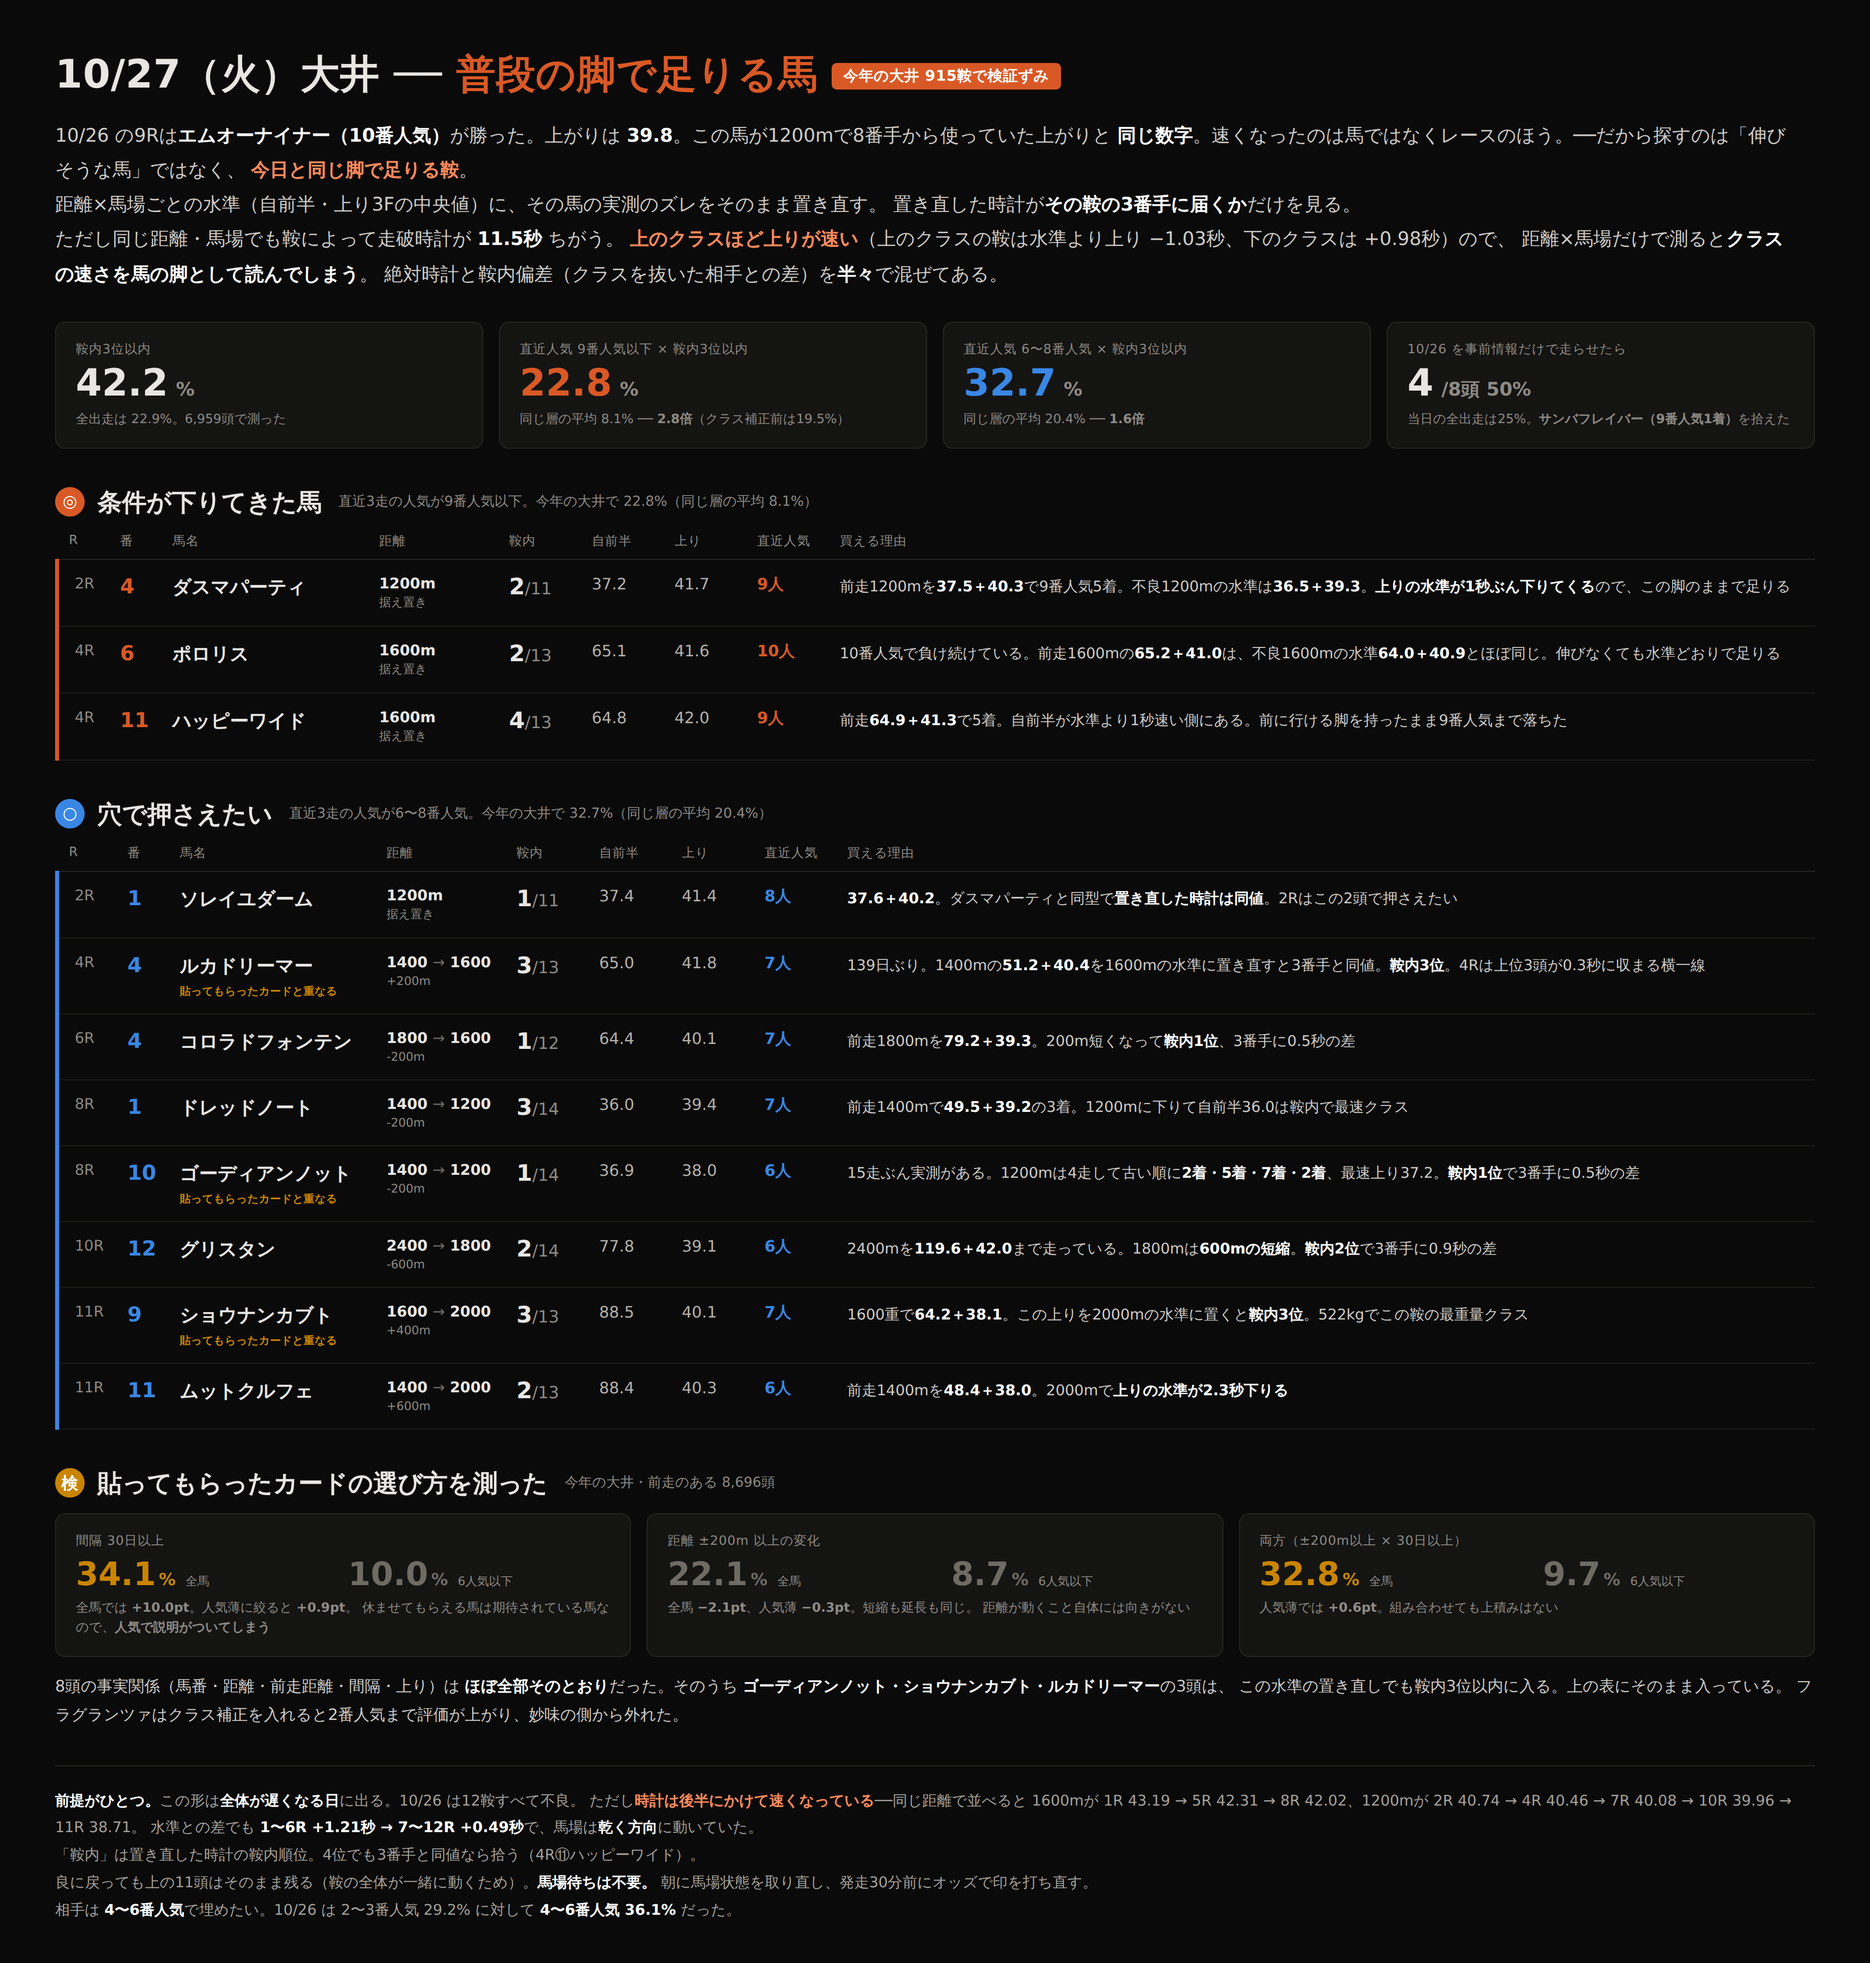
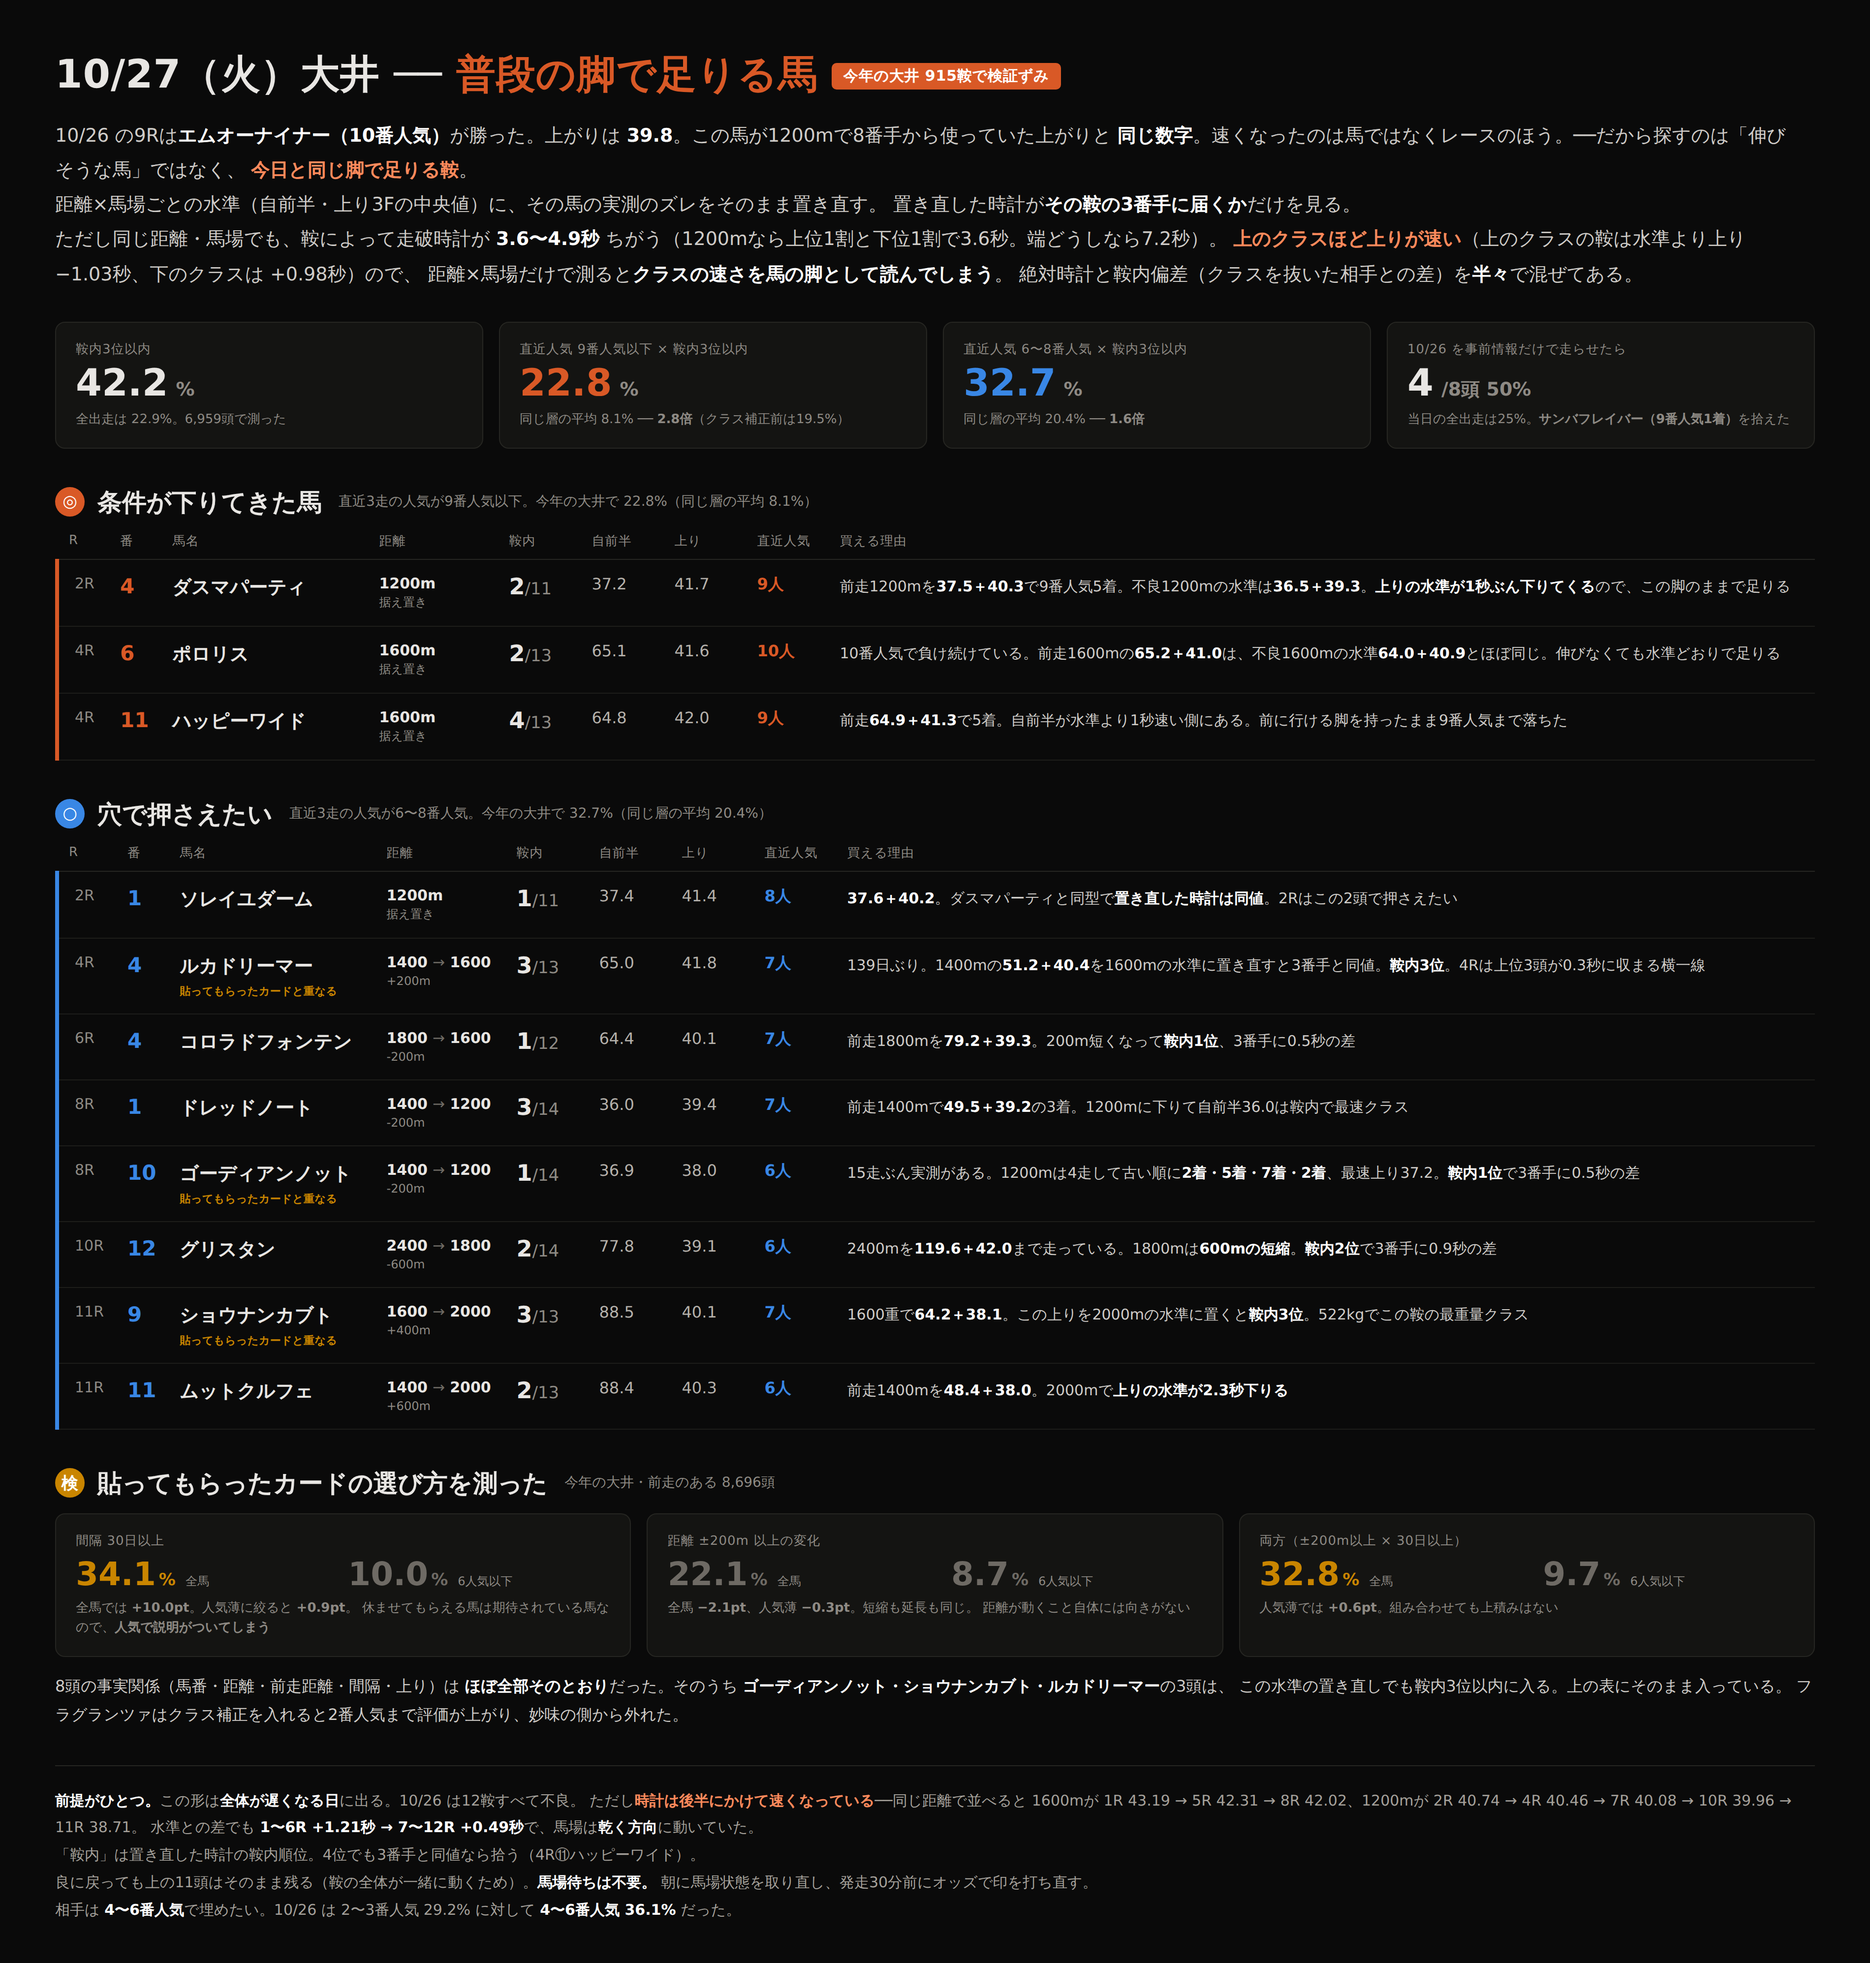
訂正：クラスの時計差は11.5秒ではなく3.6〜4.9秒
11.5秒は909鞍の最大-最小で、距離をまたいだ端どうしの差だった。
距離の中で10〜90%の幅を取ると

  1200m 327鞍 3.60秒 / 1400m 212鞍 4.50 / 1600m 249鞍 4.20
  1800m  50鞍 4.90秒 / 2000m  36鞍 4.35

1200mの端は 10/08 11R良 が中央71.6、08/15 3R重 が中央78.7 で
7.2秒。これは上位1割と下位1割の話。

補正そのもの（絶対と鞍内偏差を半々）は変えていないので、
10/27の該当馬は変わらない。

Claude-Session: https://claude.ai/code/session_01RoHscZkr96FNaxQWvUqgEw

Changed region(s): [[0.0311, 0.0932, 0.6521, 0.1554], [0.6832, 0.0932, 0.9005, 0.1554]]

diff --git a/notes/live/2026-10-27/ooi_1027.html b/notes/live/2026-10-27/ooi_1027.html
@@ -61,7 +61,7 @@ footer .hl{color:#ff8a5c;font-weight:700}
 <span class="hl">今日と同じ脚で足りる鞍</span>。<br>
 距離×馬場ごとの水準（自前半・上り3Fの中央値）に、その馬の実測のズレをそのまま置き直す。
 置き直した時計が<b>その鞍の3番手に届くか</b>だけを見る。<br>
-ただし同じ距離・馬場でも鞍によって走破時計が <b>11.5秒</b> ちがう。
+ただし同じ距離・馬場でも、鞍によって走破時計が <b>3.6〜4.9秒</b> ちがう（1200mなら上位1割と下位1割で3.6秒。端どうしなら7.2秒）。
 <span class="hl">上のクラスほど上りが速い</span>（上のクラスの鞍は水準より上り −1.03秒、下のクラスは +0.98秒）ので、
 距離×馬場だけで測ると<b>クラスの速さを馬の脚として読んでしまう</b>。
 絶対時計と鞍内偏差（クラスを抜いた相手との差）を<b>半々</b>で混ぜてある。

diff --git a/scripts/ana/ooi_fit.py b/scripts/ana/ooi_fit.py
@@ -126,7 +126,7 @@ o = ['# 大井 2026/10/27 ── 普段の脚で足りる鞍\n',
      f'馬場は **{BABA}** で置いた。水準は今年の大井 915鞍の距離×馬場ごとの中央値。\n',
      '各馬の自前半・上りは、**過去の実測をそのまま**明日の水準に置き直したもの。'
      '伸びる前提は置いていない。見込み＝自前半＋上り、壁＝その鞍の見込み3位。\n',
-     '同じ距離・馬場でも鞍によって走破時計が11.5秒ちがう（クラス）。上のクラスほど'
+     '同じ距離・馬場でも鞍によって走破時計が3.6〜4.9秒ちがう（クラス。1200mなら上位1割と下位1割で3.6秒）。上のクラスほど'
      '上りが速いので、距離×馬場だけで測るとクラスを馬の脚として読んでしまう。'
      '**絶対（距離×馬場で補正した時計）と鞍内偏差（クラスを抜いた相手との差）を半々**'
      'で混ぜた。\n',

diff --git a/scripts/ana/ooi_fit_card.py b/scripts/ana/ooi_fit_card.py
@@ -153,7 +153,7 @@ footer .hl{{color:#ff8a5c;font-weight:700}}
 <span class="hl">今日と同じ脚で足りる鞍</span>。<br>
 距離×馬場ごとの水準（自前半・上り3Fの中央値）に、その馬の実測のズレをそのまま置き直す。
 置き直した時計が<b>その鞍の3番手に届くか</b>だけを見る。<br>
-ただし同じ距離・馬場でも鞍によって走破時計が <b>11.5秒</b> ちがう。
+ただし同じ距離・馬場でも、鞍によって走破時計が <b>3.6〜4.9秒</b> ちがう（1200mなら上位1割と下位1割で3.6秒。端どうしなら7.2秒）。
 <span class="hl">上のクラスほど上りが速い</span>（上のクラスの鞍は水準より上り −1.03秒、下のクラスは +0.98秒）ので、
 距離×馬場だけで測ると<b>クラスの速さを馬の脚として読んでしまう</b>。
 絶対時計と鞍内偏差（クラスを抜いた相手との差）を<b>半々</b>で混ぜてある。

diff --git a/notes/live/2026-10-27/fit_wet.md b/notes/live/2026-10-27/fit_wet.md
@@ -1,16 +1,18 @@
 # 大井 2026/10/27 ── 普段の脚で足りる鞍
 
-馬場は **不良** で置いた。水準は今年の大井 915鞍の距離×馬場ごとの中央値に、
+馬場は **不良** で置いた。水準は今年の大井 915鞍の距離×馬場ごとの中央値。
 
 各馬の自前半・上りは、**過去の実測をそのまま**明日の水準に置き直したもの。伸びる前提は置いていない。見込み＝自前半＋上り、壁＝その鞍の見込み3位。
 
-印は今年の大井 6,856頭での実測から（同じ層の平均との比）。
+同じ距離・馬場でも鞍によって走破時計が3.6〜4.9秒ちがう（クラス。1200mなら上位1割と下位1割で3.6秒）。上のクラスほど上りが速いので、距離×馬場だけで測るとクラスを馬の脚として読んでしまう。**絶対（距離×馬場で補正した時計）と鞍内偏差（クラスを抜いた相手との差）を半々**で混ぜた。
 
-  ◎ … 直近3走の人気が9番人気以下で、見込み3位以内（19.9%／層平均8.1%の2.5倍）
+印は今年の大井 6,959頭での実測から（同じ層の平均との比）。
 
-  ○ … 直近3走の人気が6〜8番人気で、見込み3位以内（31.9%／層平均20.4%の1.6倍）
+  ◎ … 直近3走の人気が9番人気以下で、見込み3位以内（22.8%／層平均8.1%の2.8倍）
 
-  ・ … 見込み3位以内だが市場も見ている（40.7%／全体25.4%）
+  ○ … 直近3走の人気が6〜8番人気で、見込み3位以内（32.7%／層平均20.4%の1.6倍）
+
+  ・ … 見込み3位以内だが市場も見ている（42.2%／全体22.9%）
 
 
 ## 1R　1400m　6頭（水準 自前半50.1＋上り39.9＝90.0）

diff --git a/notes/live/2026-10-27/fit_dry.md b/notes/live/2026-10-27/fit_dry.md
@@ -1,16 +1,18 @@
 # 大井 2026/10/27 ── 普段の脚で足りる鞍
 
-馬場は **良** で置いた。水準は今年の大井 915鞍の距離×馬場ごとの中央値に、
+馬場は **良** で置いた。水準は今年の大井 915鞍の距離×馬場ごとの中央値。
 
 各馬の自前半・上りは、**過去の実測をそのまま**明日の水準に置き直したもの。伸びる前提は置いていない。見込み＝自前半＋上り、壁＝その鞍の見込み3位。
 
-印は今年の大井 6,856頭での実測から（同じ層の平均との比）。
+同じ距離・馬場でも鞍によって走破時計が3.6〜4.9秒ちがう（クラス。1200mなら上位1割と下位1割で3.6秒）。上のクラスほど上りが速いので、距離×馬場だけで測るとクラスを馬の脚として読んでしまう。**絶対（距離×馬場で補正した時計）と鞍内偏差（クラスを抜いた相手との差）を半々**で混ぜた。
 
-  ◎ … 直近3走の人気が9番人気以下で、見込み3位以内（19.9%／層平均8.1%の2.5倍）
+印は今年の大井 6,959頭での実測から（同じ層の平均との比）。
 
-  ○ … 直近3走の人気が6〜8番人気で、見込み3位以内（31.9%／層平均20.4%の1.6倍）
+  ◎ … 直近3走の人気が9番人気以下で、見込み3位以内（22.8%／層平均8.1%の2.8倍）
 
-  ・ … 見込み3位以内だが市場も見ている（40.7%／全体25.4%）
+  ○ … 直近3走の人気が6〜8番人気で、見込み3位以内（32.7%／層平均20.4%の1.6倍）
+
+  ・ … 見込み3位以内だが市場も見ている（42.2%／全体22.9%）
 
 
 ## 1R　1400m　6頭（水準 自前半50.4＋上り39.2＝89.6）
